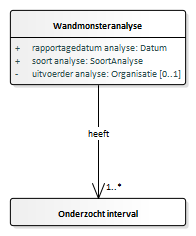
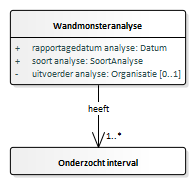
Conceptualmodel-BodemkundigwandonderzoekSFR-1.922versie2maart2020-3-20200302-20200306-112209

diff --git a/data/SFR-cat.msword.html b/data/SFR-cat.msword.html
@@ -13,7 +13,7 @@
    <body>
       <p>Conceptual model/Bodemkundig wandonderzoek (SFR)/20200302</p>
       <p>Imvertor: 1.59.2</p>
-      <p>Model release: Conceptualmodel-BodemkundigwandonderzoekSFR-1.922versie2maart2020-3-20200302-20200306-105024</p>
+      <p>Model release: Conceptualmodel-BodemkundigwandonderzoekSFR-1.922versie2maart2020-3-20200302-20200306-112209</p>
       <hr>
       <section>
          <h1>Artikel 1 Definitie van registratieobject, entiteiten en attributen</h1>
@@ -11366,7 +11366,7 @@
                </section><a class="anchor" id="graph_EAID_DC3E6339_1B2C_482c_AB74_881D1281A2EC"></a><a class="anchor" id="global_class_DomeinmodelBROSFR_Wandmonsteranalyse"></a><section id="global_class_DomeinmodelBROSFR_Wandmonsteranalyse">
                   <h3>   Wandmonsteranalyse</h3>
                   <div class="imageinfo "><img src="Images/EAID_0FF1907C_D605_4b11_9718_66E2F50C27D1.png" usemap="#imagemap-EAID_0FF1907C_D605_4b11_9718_66E2F50C27D1" alt="Diagram "><map name="imagemap-EAID_0FF1907C_D605_4b11_9718_66E2F50C27D1">
-                        <area shape="rect" alt="Onderzocht interval" coords="10,198,186,226" href="#graph_EAID_A420FBE3_89CE_466c_875A_7F10AD21E90D">
+                        <area shape="rect" alt="Onderzocht interval" coords="10,147,186,175" href="#graph_EAID_A420FBE3_89CE_466c_875A_7F10AD21E90D">
                         <area shape="rect" alt="Wandmonsteranalyse" coords="10,10,186,85" href="#graph_EAID_DC3E6339_1B2C_482c_AB74_881D1281A2EC"></map><p><b></b></p>
                   </div>
                   <table style="width: 100%;">
